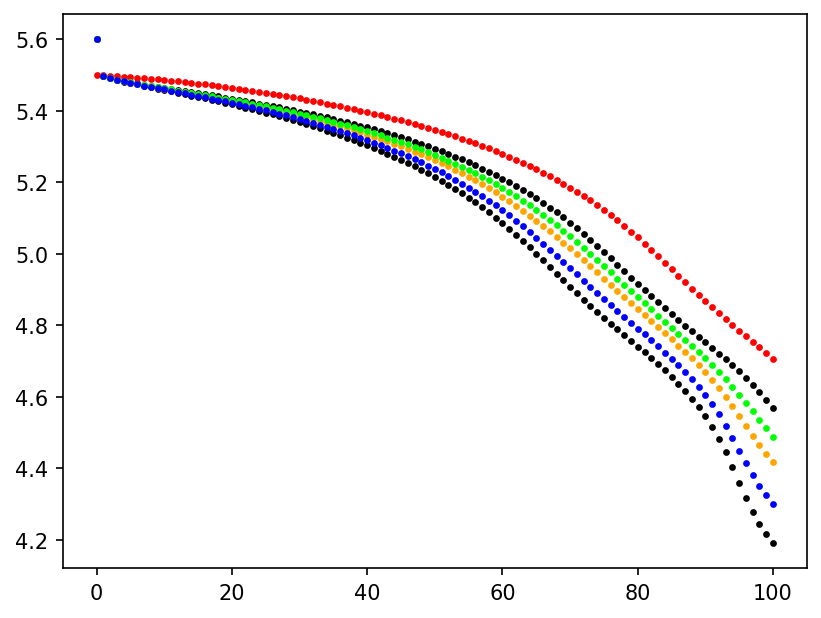
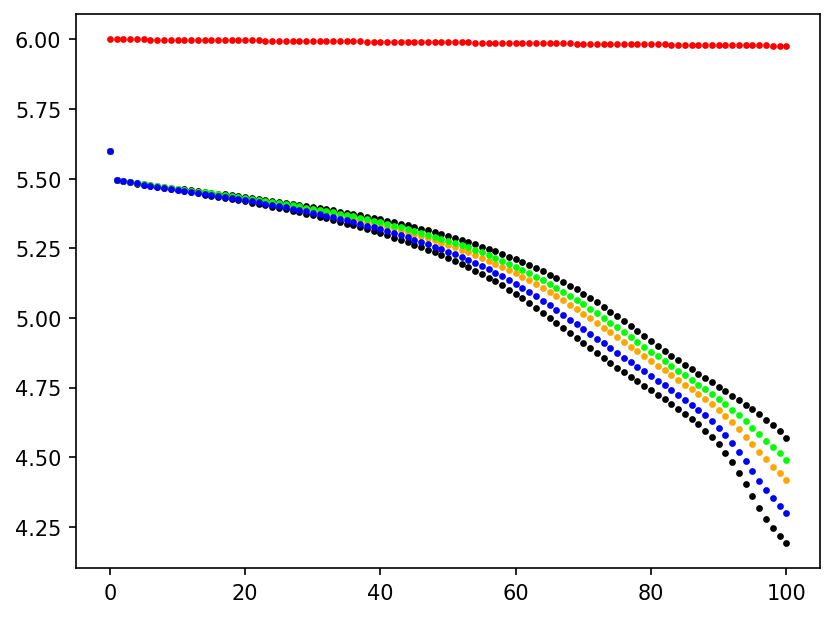
10 September - 2024

diff --git a/cooling29June2024/Table_preparation_2/createInitIonStateHDF5.py b/cooling29June2024/Table_preparation_2/createInitIonStateHDF5.py
@@ -2,6 +2,17 @@ import h5py
 import numpy as np
 
 
+
+#------ Single Chimes Output -----
+f = h5py.File(f'./SingleChimesRun.hdf5', 'r')
+#TempEvol = f['TemperatureEvolution'][:]
+AbundEvol = f['AbundanceEvolution'][:]     # (T, nH, Z, Elm, t)
+print(AbundEvol.shape)
+Abchim = AbundEvol[0, 0, 0, :, -1]
+print(Abchim)
+#---------------------------------
+
+
 '''
 Amass = {
           "H": 1.008,    # Hydrogen
@@ -19,18 +30,26 @@ Amass = {
 '''
 
 Amass = np.array([1.008, 4.0026, 12.011, 14.007, 15.999, 20.180, 24.305, 28.085, 32.06, 40.078, 55.845])
-ElmAbund = np.array([12.00, 10.93, 8.43, 7.83, 8.69, 7.93, 7.60, 7.51, 7.12, 6.34, 7.50])
+ElmAbund_solar = np.array([12.00, 10.93, 8.43, 7.83, 8.69, 7.93, 7.60, 7.51, 7.12, 6.34, 7.50])
+ElmAbund_OneTenthSolar = np.array([12.00, 10.93, 7.43, 6.83, 7.69, 6.93, 6.60, 6.51, 6.12, 5.34, 6.50])
 
-ElmMass = Amass * 10**(ElmAbund - 12.0)
+ElmMass = Amass * 10**(ElmAbund_OneTenthSolar - 12.0)
 print(ElmMass)
 print()
 
+ElmMass[0] = 0
+
 MassFrac = ElmMass / np.sum(ElmMass)
+#MassFrac[0] = 0.0
+MassFrac[0] = np.sum(ElmMass) # as explained in snapshot_utils.py, the first value should be the total mass fraction!
 print('MassFrac = ', MassFrac)
 print()
 
-nHG = np.arange(-4.0, 4.01, 0.1)
-TempG = np.arange(3.0, 10.21, 0.1)
+s()
+
+
+nHG = 10**np.arange(-4.0, 4.01, 0.2)
+TempG = 10**np.arange(3.0, 10.21, 0.2)
 N_nH = len(nHG)
 N_T = len(TempG)
 Npart = N_nH * N_T
@@ -39,6 +58,7 @@ nH_arr = np.zeros(Npart)
 T_arr = np.zeros(Npart)
 MassFrac_arr = np.zeros((Npart, 11))
 coord_arr = np.zeros((Npart, 3))
+initial_chemical_state = np.zeros((Npart, 157))
 
 dist = 0.11 # kpc !!!!!!!!!!!!!!!!!!!!!!! TO BE VARIED !!!!!!!!
 
@@ -50,13 +70,27 @@ for i in range(N_nH):
     MassFrac_arr[k, :] = MassFrac
     r = dist**(1./3.)
     coord_arr[k, :] = [r, r, r]
+    initial_chemical_state[k, :] = Abchim
     k += 1
 
 print(coord_arr)
 
+print()
+print(MassFrac_arr)
+
+print('----------')
+nt = np.where((nH_arr < 1000) & (nH_arr > 500) & (T_arr < 2e6) & (T_arr > 9e5))
+print(nt)
+print()
+print('nHHH = ', nH_arr[nt])
+print()
+print('TTT = ', T_arr[nt])
+jj = 1200
+print(nH_arr[jj], T_arr[jj])
 s()
 
-filename = 'sample_data.hdf5'
+
+filename = 'hfvInput.hdf5'
 
 # Open a new HDF5 file to write data
 with h5py.File(filename, 'w') as file:
@@ -72,16 +106,13 @@ with h5py.File(filename, 'w') as file:
     nH = nHG
     part_type0.create_dataset('nHG_hfv', data=nH_arr)
     
-    # Generate initial chemical states for each particle; it is for 157 species! Try to use CHIMES output for it ! THINK !!!!
-    #initial_chemical_state = np.random.randint(0, 10, size=(N_part, 20))  # Integer states
+    # Generate initial chemical states for each particle; it is for 157 species!
     part_type0.create_dataset('InitIonState_hfv', data=initial_chemical_state)
     
-    # Generate random temperature values for each particle.
-    temperature = np.random.rand(N_part) * 1e4  # Temperatures between 0 and 10,000
+    # Temperature values for each particle.
     part_type0.create_dataset('TempG_hfv', data=T_arr)
     
-    # Generate random 3D coordinates for each particle.
-    coordinates = np.random.rand(N_part, 3)  # 3D coordinates
+    # 3D coordinates for each particle.
     part_type0.create_dataset('Coordinates', data=coord_arr)
 
 

diff --git a/cooling29June2024/Table_preparation_2/checkxSnap.py b/cooling29June2024/Table_preparation_2/checkxSnap.py
@@ -1,0 +1,41 @@
+
+import h5py
+import matplotlib.pyplot as plt
+import numpy as np
+import pandas as pd
+import time
+import pickle
+import struct
+import glob
+
+'''
+TempEvol.shape = (1517, 101)
+AbundEvol.shape =  (1517, 157, 101)
+'''
+
+
+f = h5py.File(f'./grid_noneq_evolution_Snap.hdf5', 'r')
+
+ 
+TempEvol = f['TemperatureEvolution'][:]
+print(f'TempEvol.shape = {TempEvol.shape}\n')
+
+AbundEvol = f['AbundanceEvolution']
+print('AbundEvol.shape = ', AbundEvol.shape)
+
+
+TEvol = TempEvol[1273, :]
+
+print()
+print('TEvol = ', TEvol)
+
+plt.scatter(np.arange(101), np.log10(TEvol), s = 5, color = 'k')
+
+plt.ylim(3, 8)
+
+plt.show()
+
+
+
+
+

diff --git a/Particles_in_BH_Tree_III/coolin_Grids_hfv/utils/snapshot_utils.py b/Particles_in_BH_Tree_III/coolin_Grids_hfv/utils/snapshot_utils.py
@@ -68,8 +68,7 @@ class SnapshotData:
     def load_USER(self): 
         with h5py.File(self.driver_pars['input_file'], 'r') as h5file:
 
-            if self.driver_pars["snapshot_cosmo_flag"] == 0: 
-                expansion_factor = 1.0 
+            unit_length_in_cgs = self.driver_pars["snapshot_unitLength_cgs"]
 
             print("Reading in particle data\n" )
             sys.stdout.flush()

diff --git a/cooling29June2024/Table_preparation_2/postCheckTemp1.py b/cooling29June2024/Table_preparation_2/postCheckTemp1.py
@@ -15,6 +15,10 @@ Tchim = np.log10(TempEvol[0, 0, 0, :])
 print(Tchim)
 #---------------------------------
 
+plt.scatter(np.arange(101), Tchim, s = 5, color = 'k')
+plt.ylim(3, 8)
+plt.show()
+s()
 
 
 with open('TEvol.pkl', 'rb') as f:
